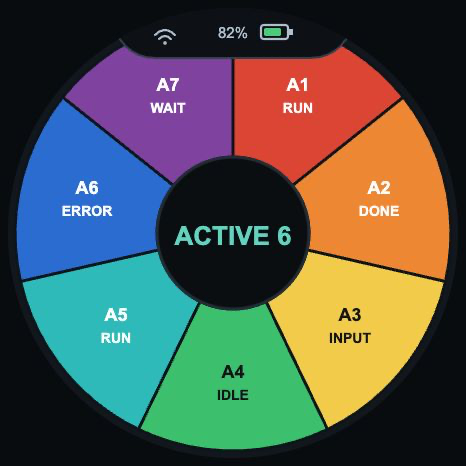
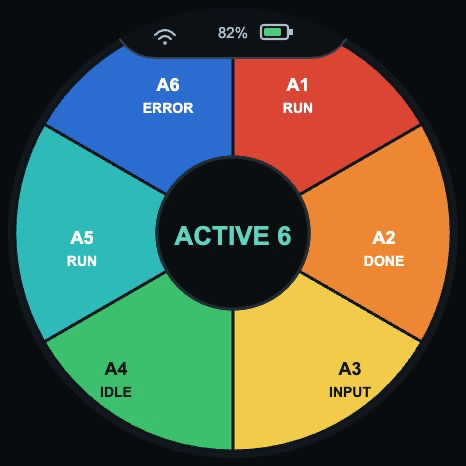
fix: update agent detail navigation and output

diff --git a/demo/status-bar-demo.html b/demo/status-bar-demo.html
@@ -329,7 +329,7 @@
         if (index >= 0) {
           selectedAgent = index;
           updateAgentDetail(selectedAgent);
-          showView('agent-detail', -1);
+          showView('agent-detail', 2);
         }
       }
       return;
@@ -339,9 +339,9 @@
       else if (active === 'home' && dx < 0) showView('approval', 1);
       else if (active === 'tasks' && dx < 0) showView('home', 1);
       else if (active === 'approval' && dx > 0) showView('home', -1);
-      else if (active === 'agent-detail' && dx < 0) showView('agents', 1);
     } else if (active === 'home' && dy < 0) showView('agents', 2);
     else if (active === 'agents' && dy > 0) showView('home', -2);
+    else if (active === 'agent-detail' && dy < 0) showView('agents', -2);
   });
 </script>
 </html>

diff --git a/src/main.cpp b/src/main.cpp
@@ -451,7 +451,6 @@ void drawAgentDetail(JsonObject doc) {
   }
   if (selected.isNull()) {
     centered("AGENT NOT FOUND", kCenterX, 226, rgb(0xF5AB41), 1.8f);
-    centered("SWIPE LEFT", kCenterX, 270, rgb(0x91A2B2), 1.45f);
     return;
   }
 
@@ -764,11 +763,12 @@ void handleTouch() {
       else if (dx < 0 && currentView == View::Home) animateTo(View::Approval, SlideFrom::Right);
       else if (dx < 0 && currentView == View::Tasks) animateTo(View::Home, SlideFrom::Right);
       else if (dx > 0 && currentView == View::Approval) animateTo(View::Home, SlideFrom::Left);
-      else if (dx < 0 && currentView == View::AgentDetail) animateTo(View::Agents, SlideFrom::Right);
     } else if (dy < 0 && currentView == View::Home) {
       animateTo(View::Agents, SlideFrom::Bottom);
     } else if (dy > 0 && currentView == View::Agents) {
       animateTo(View::Home, SlideFrom::Top);
+    } else if (dy < 0 && currentView == View::AgentDetail) {
+      animateTo(View::Agents, SlideFrom::Top);
     }
     return;
   }
@@ -813,7 +813,7 @@ void handleTouch() {
       selectedAgentId = String(agent["id"] | "");
       if (selectedAgentId.length()) {
         postAction(String("{\"type\":\"select_agent\",\"agent_id\":\"") + selectedAgentId + "\"}");
-        animateTo(View::AgentDetail, SlideFrom::Left);
+        animateTo(View::AgentDetail, SlideFrom::Bottom);
       }
     }
   }

diff --git a/tests/test_codexpp.py b/tests/test_codexpp.py
@@ -181,6 +181,22 @@ def test_read_rollout_output_supports_assistant_content_and_limits_tail(tmp_path
     assert output.endswith("x" * 720)
 
 
+def test_read_rollout_output_supports_codexpp_response_item(tmp_path):
+    path = tmp_path / "rollout.jsonl"
+    path.write_text(
+        json.dumps({
+            "type": "response_item",
+            "payload": {
+                "type": "message",
+                "role": "assistant",
+                "content": [{"type": "output_text", "text": "Renderer output"}],
+            },
+        }) + "\n",
+        encoding="utf-8",
+    )
+    assert read_rollout_output(str(path)) == "Renderer output"
+
+
 def test_read_rollout_output_returns_empty_for_missing_file(tmp_path):
     assert read_rollout_output(str(tmp_path / "missing.jsonl")) == ""
 

diff --git a/server/codexpp.py b/server/codexpp.py
@@ -609,9 +609,9 @@ def read_rollout_output(path: str, max_chars: int = 720) -> str:
             continue
         kind = str(payload.get("type") or "")
         text = ""
-        if kind == "agent_message":
+        if kind in {"agent_message", "assistant_message"}:
             text = _rollout_text(payload.get("message"))
-        elif kind == "message" and payload.get("role") == "assistant":
+        elif kind in {"message", "response"} and payload.get("role") == "assistant":
             text = _rollout_text(payload.get("content"))
         elif kind == "custom_tool_call_output":
             text = _rollout_text(payload.get("output"))

diff --git a/README.md b/README.md
@@ -9,7 +9,7 @@ Codex++ 为唯一来源，面向使用中转代理的 Codex++ 工作流适配。
 
 - 圆形 466x466 看板：Home、Tasks、Approval、Agents，以及按需打开的 Agent Detail。
 - 左右滑动切换任务和交互页面，上滑进入 Agents，电源键返回 Home。
-- 点击 Agents 的任意扇区从左侧打开详情；详情持续显示该 agent 的最新 Codex++ 输出，左滑返回 Agents。
+- 在 Agents 页面点击单个 agent 条目，详情页从下方进入；详情持续显示该 agent 的最新 Codex++ 输出，上滑返回 Agents。
 - Approval 的同意/拒绝和 choice 的 A/B/C/D 选项可以从触摸屏提交。
 - 新 approval 到达时自动进入 Approval；Tasks、Agents 和 Home 的数据更新不会自动切页。
 - 顶部状态栏统一显示 Wi-Fi、居中的电量百分比和电池图标，状态栏变化使用局部刷新。
@@ -24,10 +24,11 @@ Codex++ 为唯一来源，面向使用中转代理的 Codex++ 工作流适配。
 
 ## Demo 展示
 
-下面是当前 466x466 开发板圆形屏幕的四个页面预览。图片由
+下面是当前 466x466 开发板圆形屏幕的页面预览。图片由
 [`demo/status-bar-demo.html`](demo/status-bar-demo.html) 的导出模式生成，内容与当前固件 UI 方案保持一致。
 打开本地 demo 可以通过底部按钮或触摸滑动切换页面；在 Agents 页面点击扇区即可进入详情，
-也可以使用 `?view=tasks`、`?view=approval`、`?view=agents` 或 `?view=agent-detail` 直接打开指定页面。
+详情页通过上滑返回 Agents。也可以使用 `?view=tasks`、`?view=approval`、`?view=agents`
+或 `?view=agent-detail` 直接打开指定页面。
 
 | Home | Tasks |
 | --- | --- |
@@ -37,7 +38,11 @@ Codex++ 为唯一来源，面向使用中转代理的 Codex++ 工作流适配。
 | --- | --- |
 | ![Approval choices](docs/demo/approval.png) | ![Agents dashboard](docs/demo/agents.png) |
 
-Agent Detail 详情页会在页面停留期间持续刷新最新输出，当前 demo 可通过 Agents 扇区点击进入预览。
+| Agent Detail | |
+| --- | --- |
+| ![Agent detail live output](docs/demo/agent-detail.png) | |
+
+Agent Detail 详情页会在页面停留期间持续刷新最新输出；真实 relay 从 Codex++ rollout 中读取当前 agent 的最新 assistant 输出。
 
 ## 从零开始：macOS
 
@@ -165,7 +170,7 @@ src/main.cpp              ESP32-S3 固件、绘制、触摸和 HTTP 轮询
 include/                  固件配置模板；实际 TouchConfig.h 不提交
 scripts/                  macOS 依赖、配置、launchd、构建和刷写脚本
 demo/status-bar-demo.html 466x466 本地 UI 预览
-docs/demo/                README 使用的四个 466x466 页面截图
+docs/demo/                README 使用的 466x466 页面截图
 tests/                    relay 模型、HTTP、usage 单元测试
 ```
 
